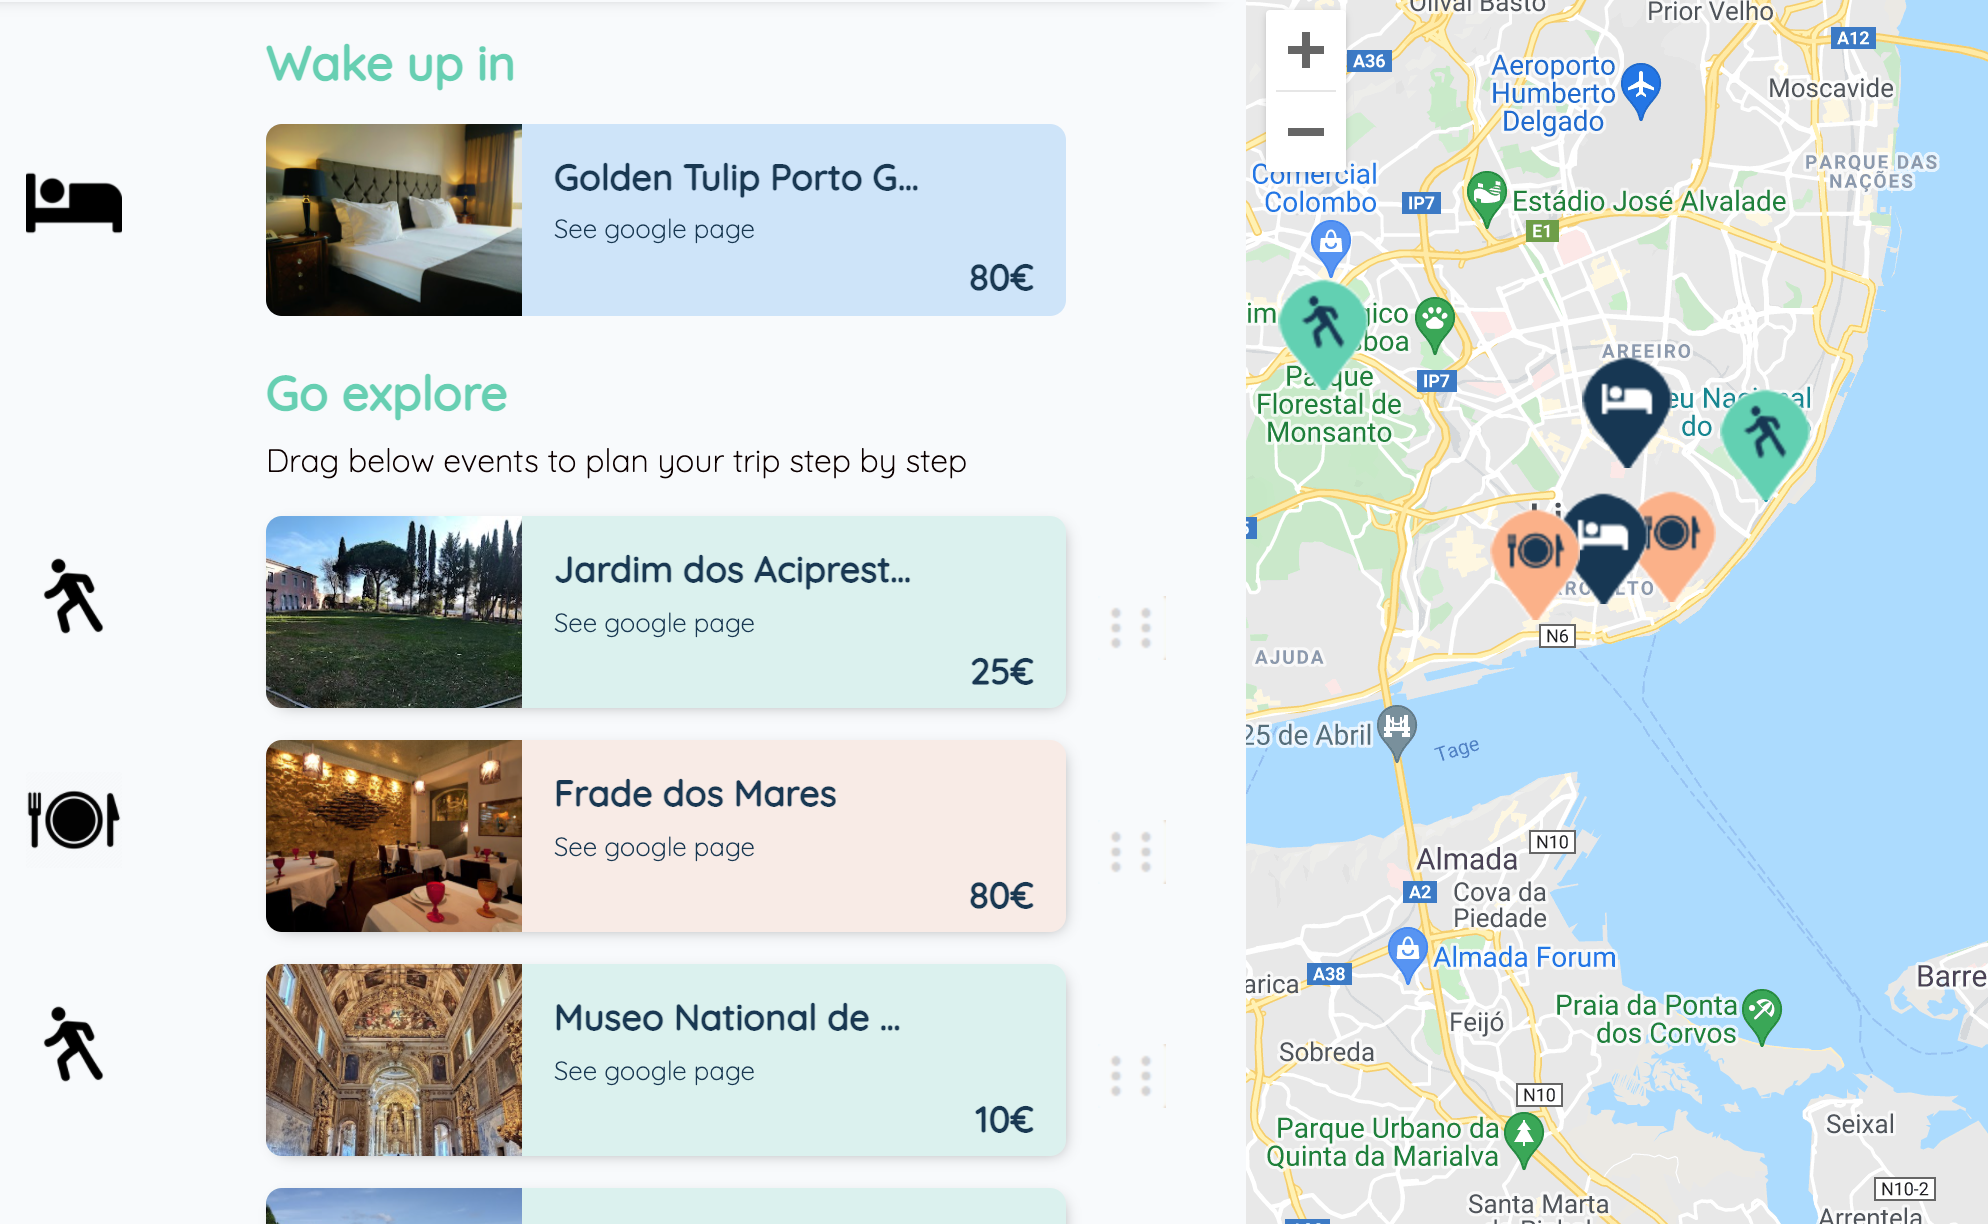
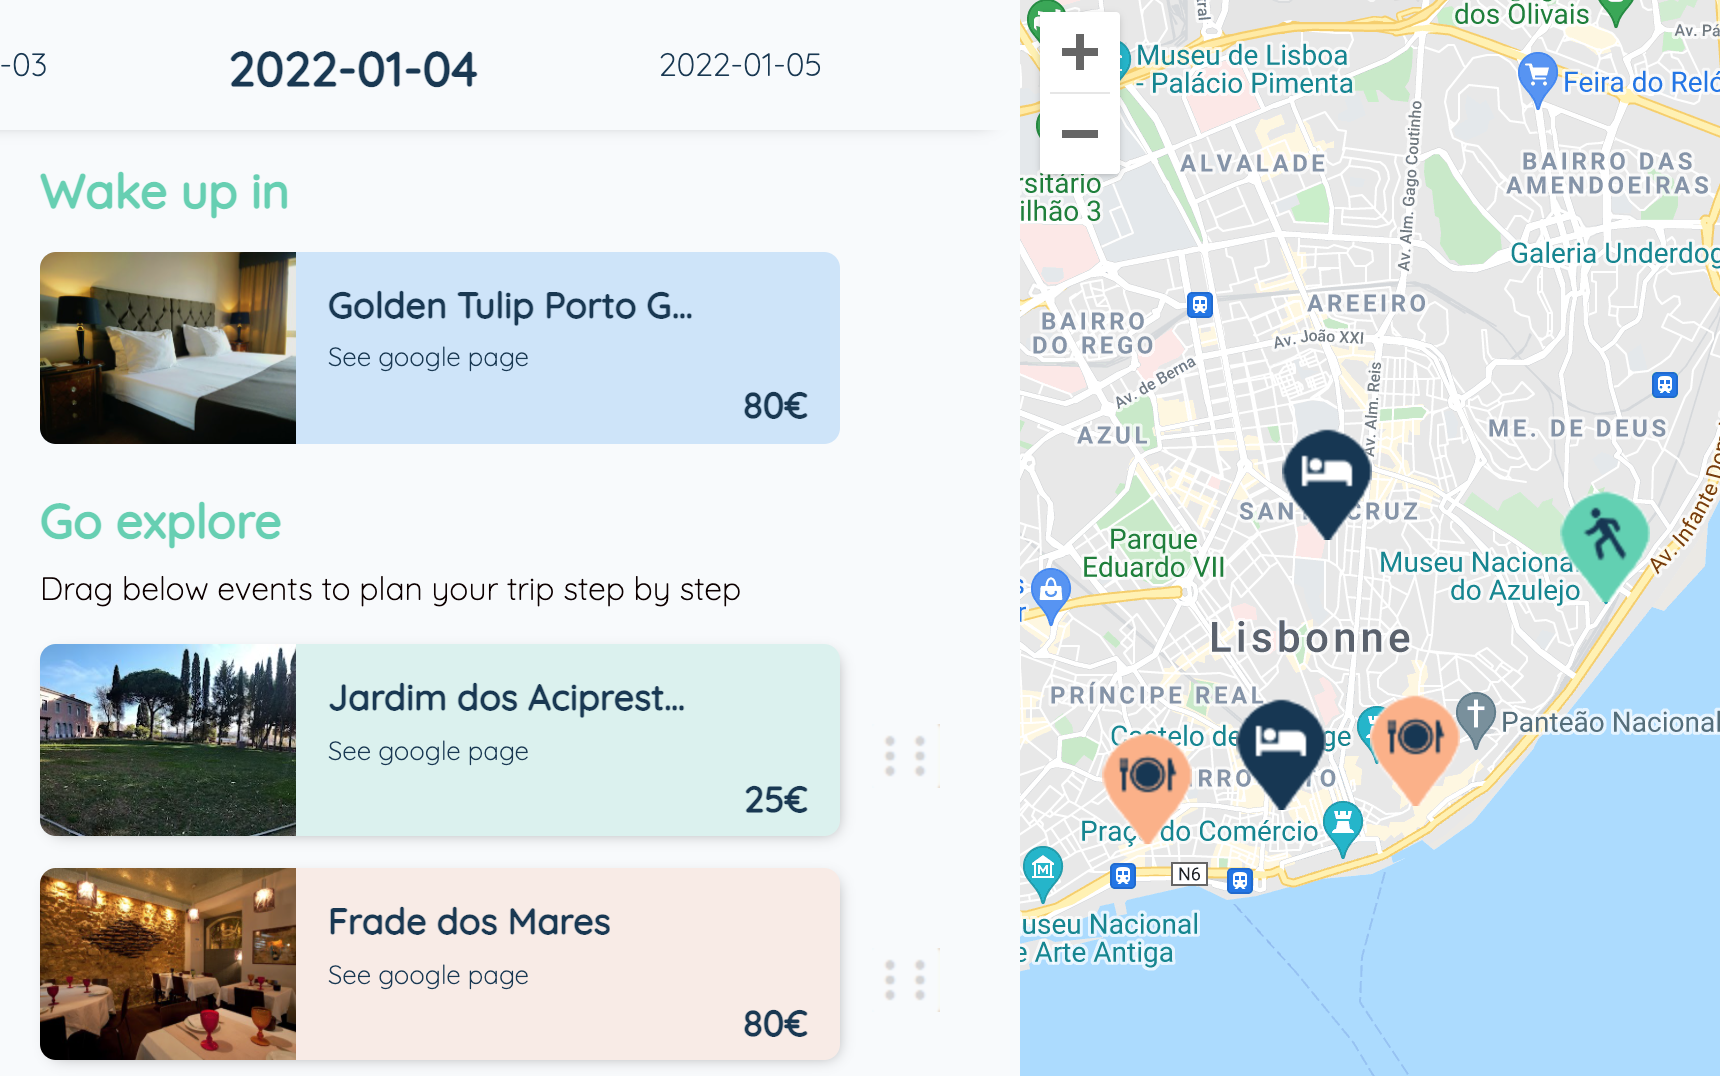
Added 3rd card Explore and background image

diff --git a/app/assets/stylesheets/pages/_home.scss b/app/assets/stylesheets/pages/_home.scss
@@ -1,11 +1,14 @@
 // Specific CSS for your home-page
 .banner {
+  background: linear-gradient(rgba(0,0,0,0.2),rgba(0,0,0,0.4)),
+    asset_url("Planes.jpg");
   background-size: cover;
   background-position: center;
   // height: 300px;
   padding: 12rem 0 12rem 0;
+  // padding: 5rem 0 20rem 0;
   // display: flex;
-  // // align-items: center;
+  // align-items: center;
   // justify-content: center;
   // align-items: flex-start;
   // vertical-align: bottom;
@@ -39,6 +42,7 @@
   border-radius: 10px;
 }
 
+// GREEN
 .content {
   position: absolute;
   top: 740px; left: 162px;
@@ -77,6 +81,7 @@
   top: 778px; right: 538px;
 }
 
+// BLUE
 .background-blue{
   background-color: $dark-blue;
   border-radius: 10px;
@@ -94,7 +99,7 @@
   height: 25rem;
   transform: rotate(.5deg);
   position: absolute;
-  top: 1226px;
+  top: 1230px;
   right: 118px;
   z-index: -1;
 }
@@ -108,12 +113,51 @@
   padding-left: 4rem;
   padding-right: 0;
   position: absolute;
-  top: 1197px;
+  top: 1219px;
   right: 838px;
   h1{
     font-size: 35px;
   }
 }
+
+// SAUMON
+.content-saumon {
+  position: absolute;
+  top: 1647px;
+  left: 162px;
+}
+
+.text-details-saumon{
+  padding-top: 7rem;
+  padding-left: 50rem;
+  padding-right: 0;
+  position: absolute;
+  top: 1672px;
+  right: 95px;
+  h1{
+    font-size: 35px;
+  }
+}
+
+.background-saumon{
+  background-color: $dark-saumon;
+  border-radius: 10px;
+  width: 60%;
+  height: 25rem;
+  transform: rotate(-1deg);
+  margin-top: 50px;
+  margin-bottom: 100px;
+}
+.background-light-saumon{
+  background-color: rgba($light-saumon, .2);
+  border-radius: 10px;
+  width: 50%;
+  height: 25rem;
+  transform: rotate(-.5deg);
+  position: absolute;
+  top: 1680px; right: 538px;
+}
+
 
 .center{
   display: inline-block;
